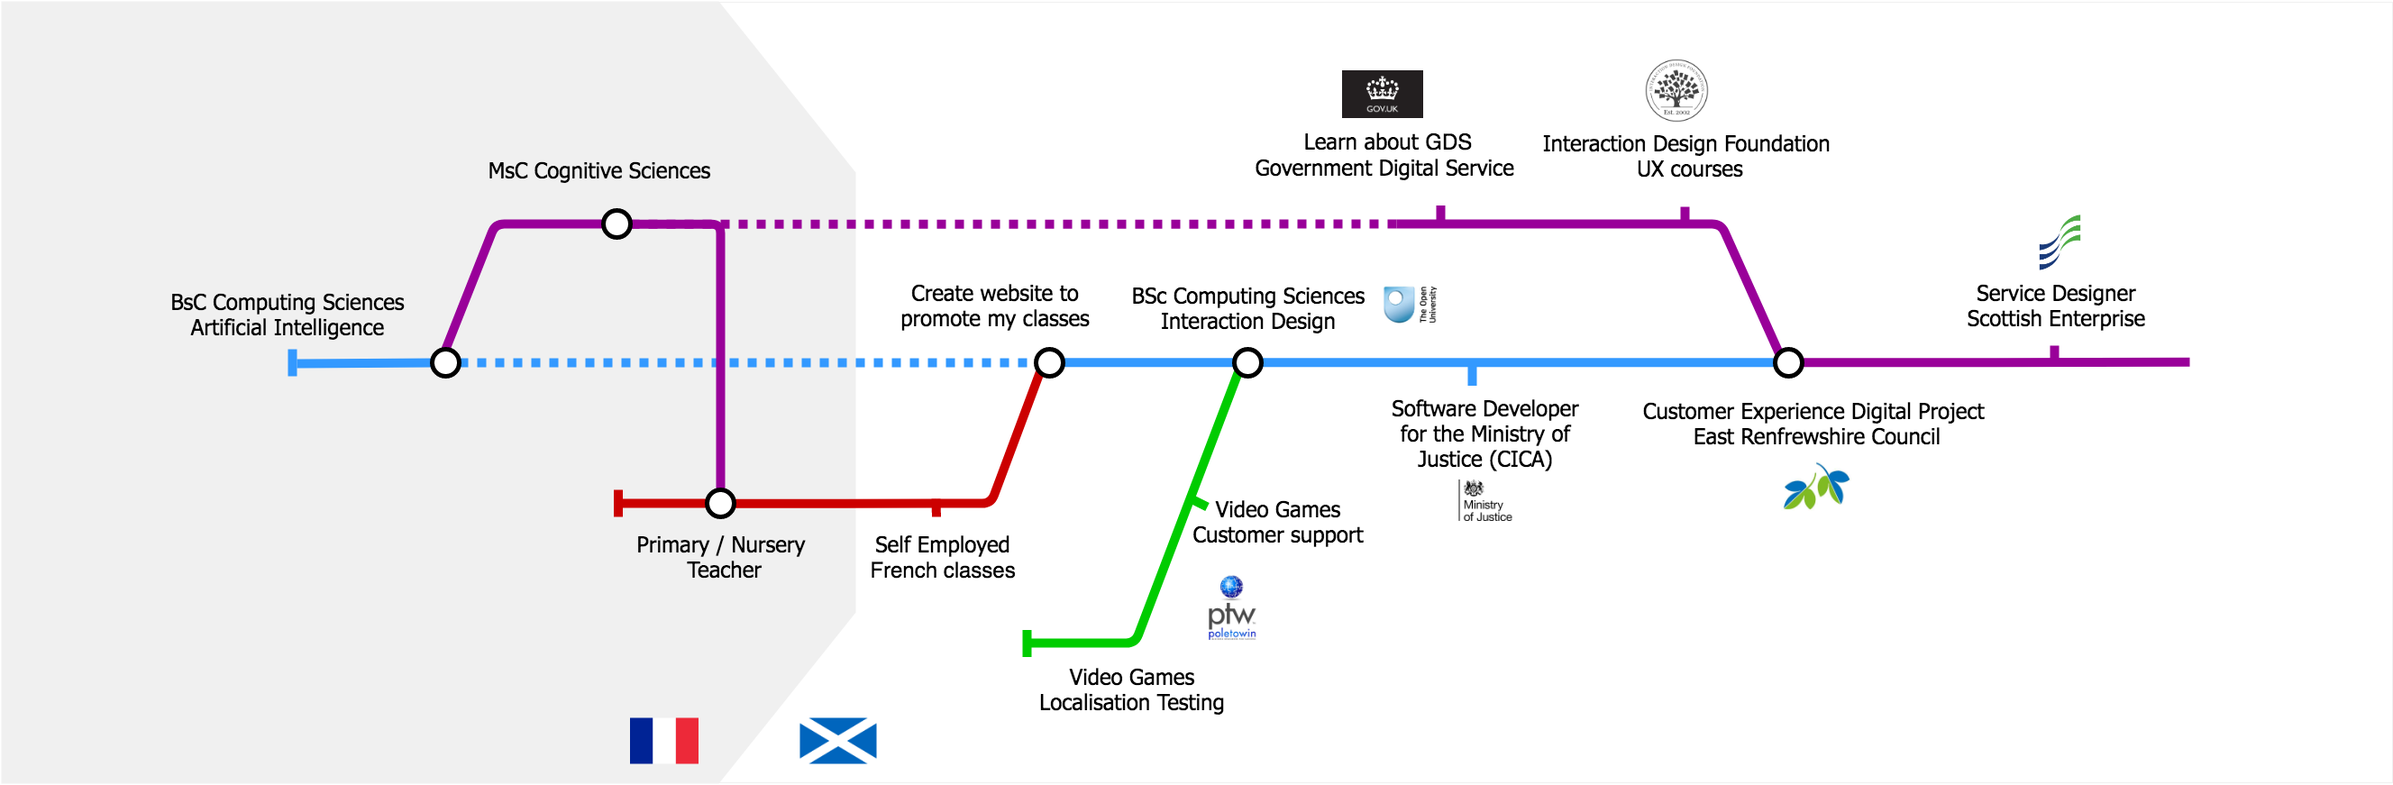
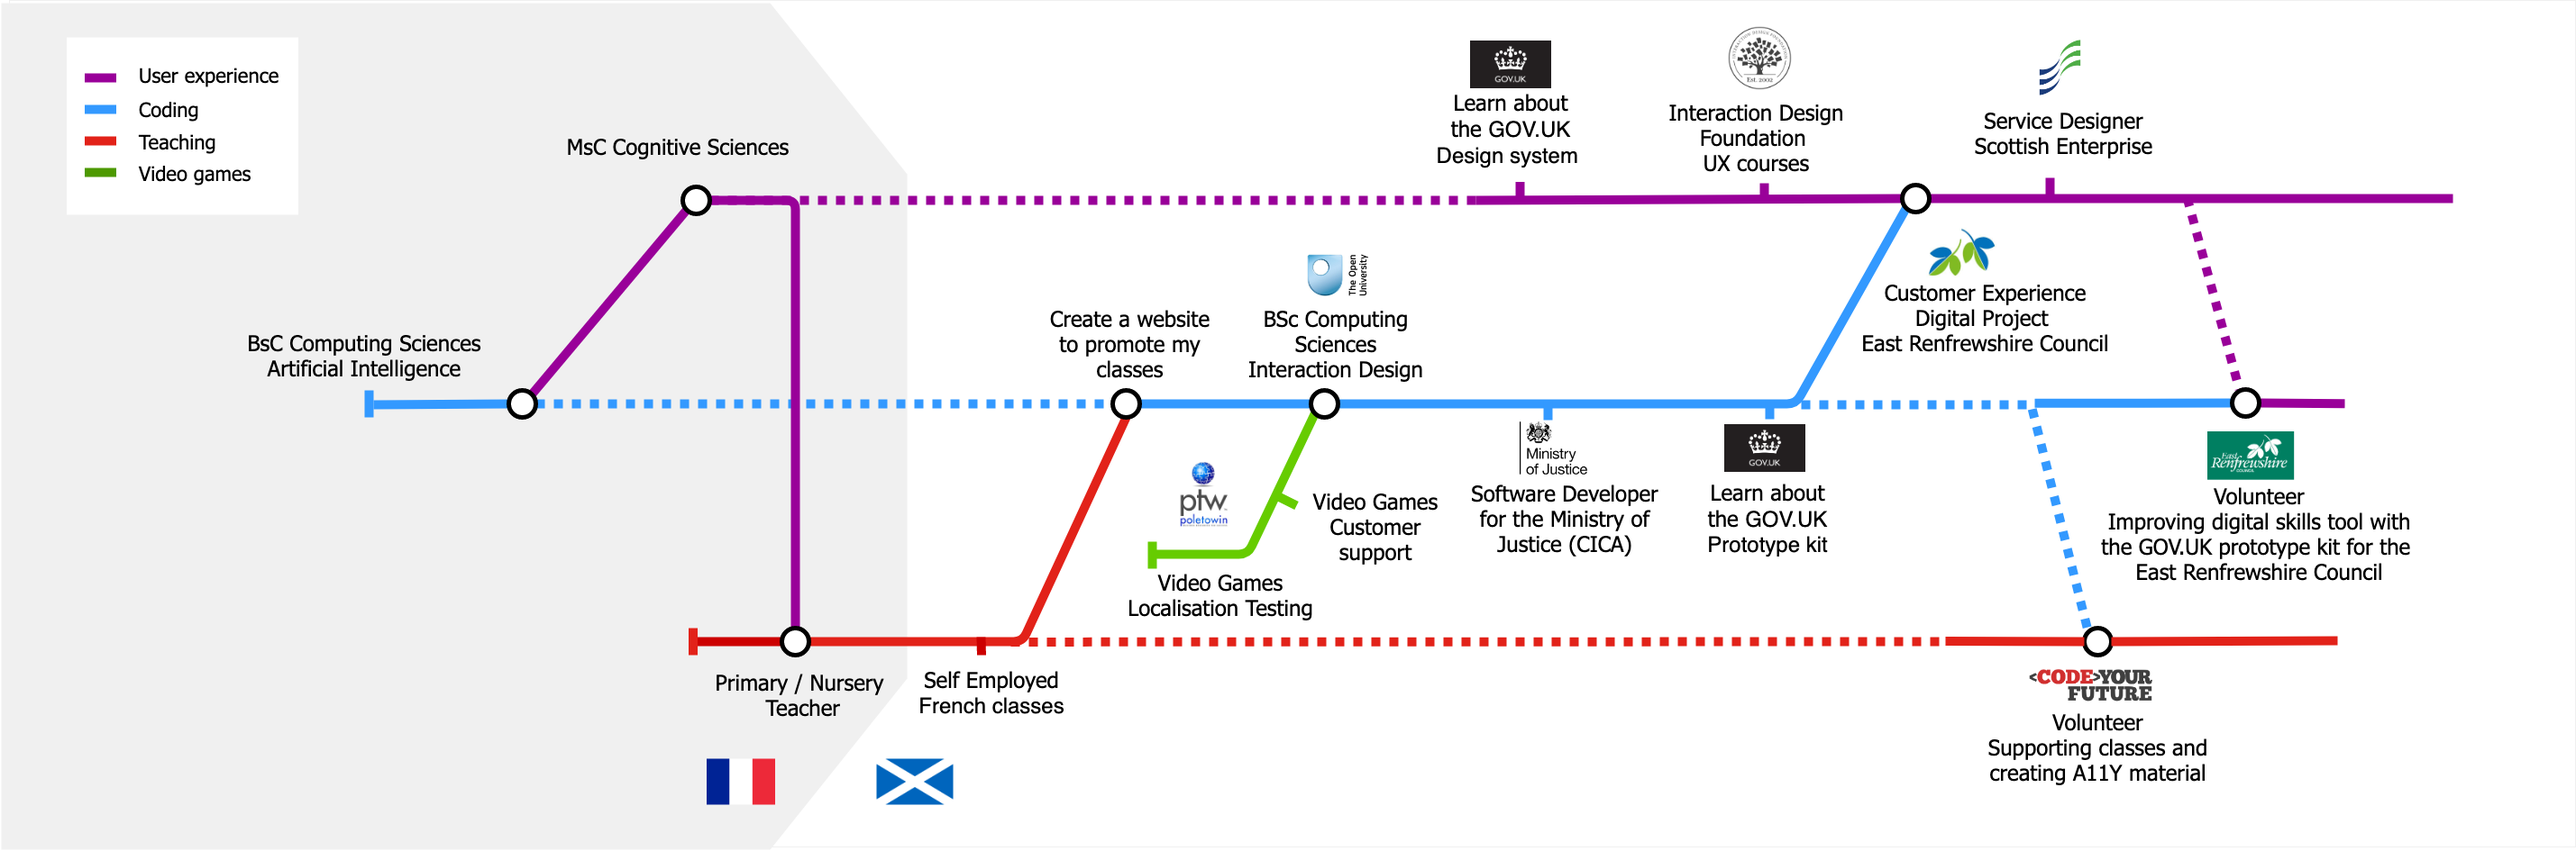
add new tube map and change the About section

diff --git a/about.html b/about.html
@@ -37,27 +37,8 @@
       <img class="hero-img" src="assets/images/herotubeMapMe.png" alt="my professional journey as a tube map. Illustration."/>
       <p class="lead">I've had many roles so far: teacher, tester, customer support representative, web designer, and software developer.
       I was doing UX Design in all of them before I even knew what UX Design was.</p>
-      <h2>Strong points</h2>
-      <p>I'm extremely organised, have a 'get done' attitude, love problem solving and learn fast.</p>
-
-      <h2>Software Developer</h2>
-      <p>A lot of developers are perfectly happy to code without being involved in the design or content discussion. This is not me.</p>
-
-      <h2>Customer Support for video games</h2>
-      <p>I worked on Information Architecture and content while building a knowledge base for my colleagues. Gathered needs and existing information, structured it so it could be maintained efficiently, and eventually empowered both the users to resolve their issues and my colleagues to maintain our knowledge base.</p>
-      <p><a href="work.html#gaming-content">More about working in video games support</a>.</p>
-
-      <h2>Teacher</h2>
-      <p>I've taught children and adults in French classes in Scotland and in Paris.</p>
-      <p>By creating my own teaching materials based on my users, ages, abilities and culture, I had to discover their specific needs, test and improve my material so they could learn effectively.</p>
-      <p>I'm now teaching with <a href="https://codeyourfuture.io/" target="_blank" rel="noopener">Code Your Future</a> as a volunteer.</p>
-      
-      <h2>Web Designer</h2>
-      <p>I've been part of various local groups (community council, allotments, parents council, book festival) and created WordPress websites for them to communicate to wider audiences.</p>
-
 
       <h2>Blog and Medium stories</h2>
-
       <p>You can read my posts <a href="https://medium.com/@stphaniekrus" target="_blank" rel="noopener">on Medium</a> or on <a href="https://blog.chezleskrus.com/about/" target="_blank" rel="noopener">my blog</a>.</p>
       <p>I write about:</p>
       <ul>
@@ -66,69 +47,24 @@
          <li>ressources - raising awareness</li>
       </ul>
 
+      <h2>Accessiblity</h2>
+      <p>I volunteer for <a href="https://accessibility.scot/" target="_blank" rel="noopener">Accessibility Scotland</a> and take every opportunity I get to talk about accessibility and raise awareness.</p>
+      <p>I'm creating training materials to deliver courses for <a href="https://codeyourfuture.io/" target="_blank" rel="noopener">Code Your Future</a>.</p>
+      
+      <h2>Improving Digital Skills</h2>
+      <p>I've created a website for East Renfrewshire Council (Volunteer work) to support classes where people will improve their digital skills by training on forms which look like real live forms but are simplified and recreated using the GOV.UK prototype.</p>
+      <p><a href="https://blog.chezleskrus.com/2020/05/06/improving-digital-skills-building-a-tool-with-the-govuk-prototype-kit/" target="_blank" rel="noopener">Read this blog post about the Digital Skill Tool</a>.</p>
+
+      <h2>Teacher</h2>
+      <p>I've taught children and adults in French classes in Scotland and in Paris.</p>
+      <p>By creating my own teaching materials based on my users, ages, abilities and culture, I had to discover their specific needs, test and improve my material so they could learn effectively.</p>
+      <p>I'm now teaching with <a href="https://codeyourfuture.io/" target="_blank" rel="noopener">Code Your Future</a> as a volunteer.</p>
+      
+   
+
+
   
-      <h2>Conferences and other events I'm going to</h2>
-        <p>In 2019, I went to:
-        <ul>
-          <li>the <a href="https://civtech.atlassian.net/wiki/spaces/CIV/pages/894631937/Demo+Day+3.0" target="_blank" rel="noopener">CivTech</a> Demo Day 3.0</li>
-          <li><a href="https://govservicedesign.net/2019/" target="_blank" rel="noopener">Service Design in Government Conference</a></li>
-          <li><a href="https://uxscotland.net/2019/" target="_blank" rel="noopener">UX Scotland Conference</a></li>
-          <li><a href="https://www.wearefuturegov.com/events" target="_blank" rel="noopener">Design 21st century government - FutureGov event</a></li>
-          <li><a href="https://accessibility.scot/" target="_blank" rel="noopener">Accessibility Scotland Conference</a></li>
-          <li><a href="https://www.bimadday.org.uk/" target="_blank" rel="noopener">BIMA Digital day</a> to talk about digital professions to academy pupils</li>
-          <li><a href="https://uservision.co.uk/training/world-usability-day-2019-14-11-2019" target="_blank" rel="noopener">World Usability Day event</a> organised by User Vision</li>
-          </ul>
-        </p> 
-      <p>
-        <a href="https://govservicedesign.net/2019/" target="_blank" rel="noopener"><img class="icon-big" src="assets/images/SDinGov.png" alt="Service Design in Government conference. Logo." title="Service Design in Government conference website"/></a>
-        <a href="https://civtech.atlassian.net/wiki/spaces/CIV/pages/894631937/Demo+Day+3.0" target="_blank" rel="noopener"><img class="icon-big" src="assets/images/civtech.png" alt="CivTech. Logo." title="CivTech Demo Day 3.0 webpage"/></a>
-        <a href="https://uxscotland.net/2019/" target="_blank" rel="noopener"><img class="icon-big" src="assets/images/UXScotlandcong.png" alt="UX Scotland Conference. Logo." title="UX Scotland Conference website"/></a>
-        <a href="https://www.wearefuturegov.com/events" target="_blank" rel="noopener"><img class="icon-big" src="assets/images/futuregov.png" alt="Design 21st century government event. Logo." title="Design 21st century government webpage"/></a>
-        <a href="https://accessibility.scot/" target="_blank" rel="noopener"><img class="icon-big" src="assets/images/a11y-2019.png" alt="Accessibility Scotland conference. Logo." title="Accessibility Scotland website"/></a>
-        <a href="https://www.bimadday.org.uk/" target="_blank" rel="noopener"><img class="icon-big" src="assets/images/bima.png" alt="Bima Digital day. Logo." title="Bima Digital day event webpage"/></a>
-        <a href="https://uservision.co.uk/training/world-usability-day-2019-14-11-2019" target="_blank" rel="noopener"><img class="icon-big" src="assets/images/uservision2019.png" alt="User Vision world usability day event. Logo." title="User Vision world usability day event webpage"/></a>
-      </p>
-
-
-      <h2>Tools I use as a Designer</h2>
-      <p>
-        <img class="icon" src="assets/images/icons/govuk.png" alt="GOV.UK tool kit logo."/>
-        <img class="icon" src="assets/images/icons/Sharpie.jpeg" alt="Sharpies. Illustration."/>
-        <img class="icon-big" src="assets/images/icons/postit.jpeg" alt="Sticky papers. Illustration."/>
-        <img class="icon" src="assets/images/icons/drawio-icon.png" alt="Draw.io logo." />
-      </p>
-
-
-      <h2 id="tools">Tools I use to test Accessibility</h2>
-      <p>
-        <img class="icon" src="assets/images/icons/browserstacklogo.jpeg" alt="BrowserStack software. logo."/>
-        <img class="icon-big" src="assets/images/icons/JAWS-logo.jpeg" alt="JAWS screen reader. logo."/>
-        <img class="icon" src="assets/images/icons/NVDA.jpeg" alt="NVDA screen reader. logo."/>
-        <img class="icon" src="assets/images/icons/zoomtext_logo.jpeg" alt="Zoomtext magnifier. logo."/>
-        <img class="icon-big" src="assets/images/icons/voiceover.jpeg" alt="Voice Over screen reader. logo."/>
-        <img class="icon" src="assets/images/icons/wavelogo.png" alt="Chrome plugin. logo."/>
-        <img class="icon-big" src="assets/images/icons/funkify.jpg" alt="Funkify Chrome plugin. logo."/>
-      </p>
-
-      <h2>Tools I use as Developer</h2>
-      <p>
-        <img class="icon-big" src="assets/images/icons/htmlcssjs.png" alt="HTML CSS and Javascript. logo."/>
-        <img class="icon" src="assets/images/icons/github.png" alt="Github. logo."/>
-        <img class="icon" src="assets/images/icons/jquery_logo.jpeg" alt="JQuery. logo."/>
-        <img class="icon-big" src="assets/images/icons/bootstrap.png" alt="Bootstrap. logo."/>
-        <img class="icon" src="assets/images/icons/node.png" alt="NodeJS. logo."/>
-        <img class="icon" src="assets/images/icons/nunjucks.png" alt="Nunjucks. logo."/>
-      </p>
-
-      <h2>Tools and frameworks used to organise my work</h2>
-      <p>
-        <img class="icon" src="assets/images/icons/trello.png" alt="Trello. logo"/>
-        <img class="icon" src="assets/images/icons/confluence.jpg" alt="Confluence. logo"/>
-        <img class="icon" src="assets/images/icons/Jira.png" alt="Jira. logo"/>
-        <img class="icon-big" src="assets/images/icons/Scrum.png" alt="Scrum and Agile. logo"/>
-        <img class="icon-big" src="assets/images/icons/miro.png" alt="Miro Realtime board. logo"/>
-        <img class="icon" src="assets/images/icons/leankit.png" alt="LeanKit. logo"/>
-      </p>
+    
 
     </main>
       

diff --git a/cv.html b/cv.html
@@ -160,8 +160,8 @@
         <p>Helping with some of the classes (HTML, CSS, JS but also UX, Accessibility and other soft skills) </p>
         <p><a href="https://codeyourfuture.io/" target="_blank" rel="noopener">Learn about Code Your Future</a></p>
 
-        <h3>Working on a tool to improve digital skills</h3>
-        <p class="date">Feb 20 |  Scottish Enterprise & East Renfrewshire Council</p>
+        <h3>Creating a tool to improve digital skills</h3>
+        <p class="date">Feb 20 |  As a volunteer for East Renfrewshire Council</p>
         <p>Prototyping existing forms from the GOV.UK and the council to use as support for classes organised by the council for refugees and other members of the community with low digital skills to learn and become more confident.</p>
         <p>I've blogged about this project: <a href="https://blog.chezleskrus.com/2020/05/06/improving-digital-skills-building-a-tool-with-the-govuk-prototype-kit/" target="_blank" rel="noopener" title="go to the blog post">https://blog.chezleskrus.com/2020/05/06/improving-digital-skills-building-a-tool-with-the-govuk-prototype-kit/</a></p>
      
